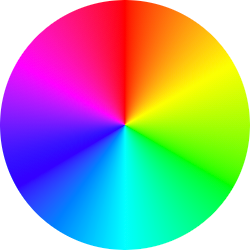
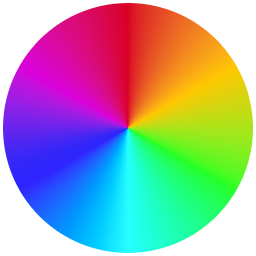
Revise color palette for sweep gradient images

diff --git a/images/conic_gradients.html b/images/conic_gradients.html
@@ -1,14 +1,14 @@
 <html>
 <body>
-<div style="width: 200px; height: 200px; background: conic-gradient(red, yellow, lime, aqua, blue, magenta, red); border-radius: 50%;"></div>
+<div style="width: 200px; height: 200px; background: conic-gradient(#DA0025, #FFC600, #25FF25, #25FFFF, #2525FF, #DA00DA, #DA0025); border-radius: 50%;"></div>
 <br>
-<div style="width: 200px; height: 200px; background: conic-gradient(red, yellow, red); border-radius: 50%;"></div>
+<div style="width: 200px; height: 200px; background: conic-gradient(#DA0025, #FFC600, #DA0025); border-radius: 50%;"></div>
 <br>
-<div style="width: 200px; height: 200px; background: conic-gradient(from -60deg, red, yellow, red); border-radius: 50%;"></div>
+<div style="width: 200px; height: 200px; background: conic-gradient(from -60deg, #DA0025, #FFC600, #DA0025); border-radius: 50%;"></div>
 <br>
-<div style="width: 200px; height: 200px; background: conic-gradient(yellow, red); border-radius: 50%;"></div>
+<div style="width: 200px; height: 200px; background: conic-gradient(#FFC600, #DA0025); border-radius: 50%;"></div>
 <br>
-<div style="width: 200px; height: 200px; background: conic-gradient(from -60deg, yellow, red 33%, white 40deg); border-radius: 50%;"></div>
+<div style="width: 200px; height: 200px; background: conic-gradient(from -60deg, #FFC600, #DA0025 33%, white 40deg); border-radius: 50%;"></div>
 
 </body>
 </html>
